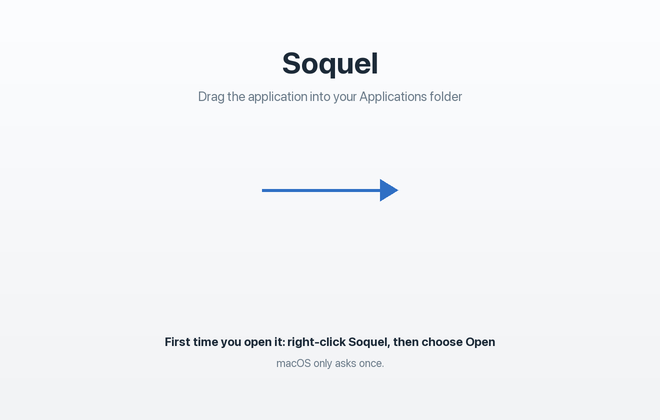
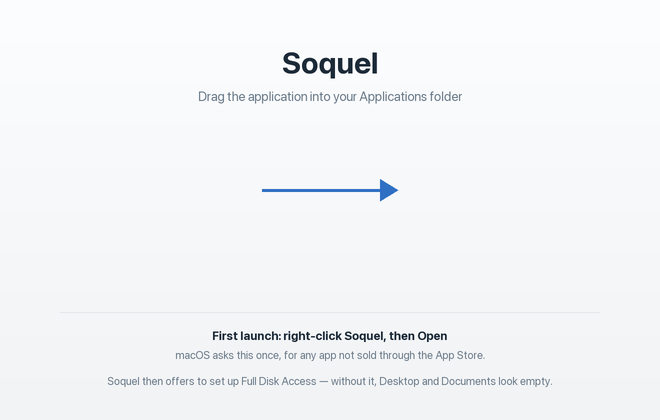
Say what to grant on the first launch, and why
A file manager without Full Disk Access shows Desktop, Documents and
Downloads as empty. That reads as the application being broken rather
than as a permission not yet given, and nothing anywhere said otherwise.

The first launch now opens one window with the two things worth setting
up. Neither can be done from code and the window says so: the database
recording these permissions is protected by System Integrity Protection
precisely so that no program can grant itself access. What it does is
notice the permission is missing, explain what it is for, open the right
pane, and tick itself when the grant lands — checked when the
application comes back to the front, since the granting happens in
another process.

Volumes can be reassigned to Soquel and are offered. Folders cannot:
that call returns paramErr, macOS keeps folders for Finder. The window
says that rather than pretending, and there is a test recording the
refusal so a later attempt finds the answer instead of the error.

Shown once, and reachable again from the Soquel menu.

The disk image now carries the same two warnings, since they are both
things that make a first run look broken to someone who was not told.

Changed region(s): [[0.1515, 0.7738, 0.8485, 0.9286]]

diff --git a/Sources/SoquelCore/Welcome.swift b/Sources/SoquelCore/Welcome.swift
@@ -1,0 +1,282 @@
+import AppKit
+
+/// Whether the application can read the whole disk, and how to say so.
+///
+/// None of this can be granted from code. The database that records these
+/// permissions is protected by System Integrity Protection exactly so that no
+/// program can grant itself access — an application that could would make the
+/// permission meaningless. What an application can do is notice the permission
+/// is missing, say plainly what it is for, and open the pane that grants it.
+enum FullDiskAccess {
+    /// A path only readable with Full Disk Access.
+    ///
+    /// Asking the system directly is not possible; the only honest test is to
+    /// try reading something protected and see whether it is refused. This file
+    /// is the one every application uses for the purpose, and it is opened
+    /// read-only and immediately closed.
+    private static var probe: URL {
+        FileManager.default.homeDirectoryForCurrentUser
+            .appendingPathComponent("Library/Application Support/com.apple.TCC/TCC.db")
+    }
+
+    static var isGranted: Bool {
+        guard FileManager.default.fileExists(atPath: probe.path) else {
+            // No file to read means no answer either way. Treated as granted so
+            // a machine that files it elsewhere is not nagged forever.
+            return true
+        }
+        guard let handle = try? FileHandle(forReadingFrom: probe) else { return false }
+        try? handle.close()
+        return true
+    }
+
+    /// Opens the Full Disk Access list and shows the application in Finder, so
+    /// it can be dragged in. The list cannot be added to from code either.
+    static func openSettings() {
+        if let url = URL(string: "x-apple.systempreferences:com.apple.preference.security?Privacy_AllFiles") {
+            NSWorkspace.shared.open(url)
+        }
+        DispatchQueue.main.asyncAfter(deadline: .now() + 1.2) {
+            NSWorkspace.shared.activateFileViewerSelecting([Bundle.main.bundleURL])
+        }
+    }
+}
+
+/// What Soquel can and cannot take over from Finder.
+enum DefaultHandler {
+    /// macOS refuses to let anything but Finder handle `public.folder`; the
+    /// call returns paramErr. Volumes are allowed, which covers double-clicking
+    /// a disk. Everything else is per-file "Open With".
+    static let folderRoleIsReserved = true
+
+    static func makeDefaultForVolumes() -> Bool {
+        let id = Bundle.main.bundleIdentifier ?? "app.soquel.Soquel"
+        return LSSetDefaultRoleHandlerForContentType(
+            "public.volume" as CFString, .viewer, id as CFString) == noErr
+    }
+
+    static var isDefaultForVolumes: Bool {
+        let id = Bundle.main.bundleIdentifier ?? "app.soquel.Soquel"
+        guard let current = LSCopyDefaultRoleHandlerForContentType(
+            "public.volume" as CFString, .viewer)?.takeRetainedValue() as String? else { return false }
+        return current.caseInsensitiveCompare(id) == .orderedSame
+    }
+}
+
+/// Shown once, on the first launch after installing.
+///
+/// The alternative is the application silently listing nothing in Desktop and
+/// Documents while the person wonders what is broken — those folders are
+/// protected, and a file manager that cannot read them looks defective rather
+/// than unpermitted.
+final class WelcomeWindowController: NSWindowController {
+    static let shared = WelcomeWindowController()
+
+    private var accessRow: StepRow!
+    private var volumeRow: StepRow!
+    private var observer: NSObjectProtocol?
+
+    /// Whether the first run has already been through this.
+    static var hasBeenShown: Bool {
+        get { Settings.bool(forKey: "welcomeShown") }
+        set { Settings.set(newValue, forKey: "welcomeShown") }
+    }
+
+    /// Shows it on a first launch, and never again on its own.
+    static func showIfFirstLaunch() {
+        guard !hasBeenShown else { return }
+        hasBeenShown = true
+        // After the first window, so it is not talking to an empty screen.
+        DispatchQueue.main.asyncAfter(deadline: .now() + 0.4) { shared.show() }
+    }
+
+    func show() {
+        if window == nil { build() }
+        refresh()
+        window?.center()
+        showWindow(nil)
+        window?.makeKeyAndOrderFront(nil)
+        NSApp.activate(ignoringOtherApps: true)
+    }
+
+    deinit {
+        if let observer { NotificationCenter.default.removeObserver(observer) }
+    }
+
+    private func build() {
+        let panel = NSWindow(
+            contentRect: NSRect(x: 0, y: 0, width: 520, height: 430),
+            styleMask: [.titled, .closable],
+            backing: .buffered, defer: false
+        )
+        panel.title = "Welcome to Soquel"
+        panel.isReleasedWhenClosed = false
+
+        let icon = NSImageView(image: NSApp.applicationIconImage)
+        icon.imageScaling = .scaleProportionallyUpOrDown
+        icon.translatesAutoresizingMaskIntoConstraints = false
+
+        let title = NSTextField(labelWithString: "Two things to set up")
+        title.font = NSFont.systemFont(ofSize: 19, weight: .semibold)
+        title.translatesAutoresizingMaskIntoConstraints = false
+
+        let blurb = NSTextField(wrappingLabelWithString:
+            "Neither can be done for you — macOS only lets you grant them yourself.")
+        blurb.font = Theme.rowSecondary
+        blurb.textColor = .secondaryLabelColor
+        blurb.translatesAutoresizingMaskIntoConstraints = false
+
+        accessRow = StepRow(
+            title: "Full Disk Access",
+            detail: "Desktop, Documents and Downloads are protected by macOS. "
+                + "Without this Soquel shows them as empty, which looks broken but is not.",
+            buttonTitle: "Open Settings…",
+            action: { [weak self] in
+                FullDiskAccess.openSettings()
+                self?.startWatchingForGrant()
+            }
+        )
+
+        volumeRow = StepRow(
+            title: "Open disks in Soquel",
+            detail: "Double-clicking a disk opens it here instead of in Finder. "
+                + "Folders cannot be reassigned — macOS keeps those for Finder.",
+            buttonTitle: "Use Soquel",
+            action: { [weak self] in
+                _ = DefaultHandler.makeDefaultForVolumes()
+                self?.refresh()
+            }
+        )
+
+        let done = NSButton(title: "Done", target: self, action: #selector(close(_:)))
+        done.keyEquivalent = "\r"
+        done.translatesAutoresizingMaskIntoConstraints = false
+
+        let later = NSTextField(labelWithString: "You can reopen this from the Soquel menu.")
+        later.font = Theme.status
+        later.textColor = .tertiaryLabelColor
+        later.translatesAutoresizingMaskIntoConstraints = false
+
+        let content = panel.contentView!
+        for view in [icon, title, blurb, accessRow!, volumeRow!, done, later] as [NSView] {
+            content.addSubview(view)
+        }
+
+        NSLayoutConstraint.activate([
+            icon.topAnchor.constraint(equalTo: content.topAnchor, constant: 24),
+            icon.leadingAnchor.constraint(equalTo: content.leadingAnchor, constant: 26),
+            icon.widthAnchor.constraint(equalToConstant: 56),
+            icon.heightAnchor.constraint(equalToConstant: 56),
+
+            title.leadingAnchor.constraint(equalTo: icon.trailingAnchor, constant: 16),
+            title.topAnchor.constraint(equalTo: content.topAnchor, constant: 28),
+            title.trailingAnchor.constraint(equalTo: content.trailingAnchor, constant: -26),
+
+            blurb.leadingAnchor.constraint(equalTo: title.leadingAnchor),
+            blurb.topAnchor.constraint(equalTo: title.bottomAnchor, constant: 4),
+            blurb.trailingAnchor.constraint(equalTo: content.trailingAnchor, constant: -26),
+
+            accessRow.topAnchor.constraint(equalTo: icon.bottomAnchor, constant: 26),
+            accessRow.leadingAnchor.constraint(equalTo: content.leadingAnchor, constant: 26),
+            accessRow.trailingAnchor.constraint(equalTo: content.trailingAnchor, constant: -26),
+
+            volumeRow.topAnchor.constraint(equalTo: accessRow.bottomAnchor, constant: 18),
+            volumeRow.leadingAnchor.constraint(equalTo: accessRow.leadingAnchor),
+            volumeRow.trailingAnchor.constraint(equalTo: accessRow.trailingAnchor),
+
+            done.trailingAnchor.constraint(equalTo: content.trailingAnchor, constant: -26),
+            done.bottomAnchor.constraint(equalTo: content.bottomAnchor, constant: -20),
+            done.widthAnchor.constraint(greaterThanOrEqualToConstant: 90),
+
+            later.leadingAnchor.constraint(equalTo: content.leadingAnchor, constant: 26),
+            later.centerYAnchor.constraint(equalTo: done.centerYAnchor),
+        ])
+
+        window = panel
+
+        // Granting happens in System Settings, in another process, so the only
+        // way to notice is to look again when the window comes back.
+        observer = NotificationCenter.default.addObserver(
+            forName: NSApplication.didBecomeActiveNotification, object: nil, queue: .main
+        ) { [weak self] _ in self?.refresh() }
+    }
+
+    /// Checks a few times after sending someone to System Settings, so the tick
+    /// appears without them having to click back and forth to prompt it.
+    private func startWatchingForGrant() {
+        for delay in stride(from: 2.0, through: 20.0, by: 2.0) {
+            DispatchQueue.main.asyncAfter(deadline: .now() + delay) { [weak self] in
+                self?.refresh()
+            }
+        }
+    }
+
+    private func refresh() {
+        accessRow?.setDone(FullDiskAccess.isGranted)
+        volumeRow?.setDone(DefaultHandler.isDefaultForVolumes)
+    }
+
+    @objc private func close(_ sender: Any?) { window?.close() }
+}
+
+/// One numbered step: what it is, why, and a button that does as much of it as
+/// is possible from here.
+private final class StepRow: NSView {
+    private let button: NSButton
+    private let tick: NSTextField
+    private let action: () -> Void
+
+    init(title: String, detail: String, buttonTitle: String, action: @escaping () -> Void) {
+        self.action = action
+        button = NSButton(title: buttonTitle, target: nil, action: nil)
+        tick = NSTextField(labelWithString: "")
+        super.init(frame: .zero)
+        translatesAutoresizingMaskIntoConstraints = false
+
+        button.target = self
+        button.action = #selector(run)
+        button.translatesAutoresizingMaskIntoConstraints = false
+
+        tick.font = NSFont.systemFont(ofSize: 15, weight: .semibold)
+        tick.translatesAutoresizingMaskIntoConstraints = false
+
+        let name = NSTextField(labelWithString: title)
+        name.font = NSFont.systemFont(ofSize: 13, weight: .semibold)
+        name.translatesAutoresizingMaskIntoConstraints = false
+
+        let why = NSTextField(wrappingLabelWithString: detail)
+        why.font = Theme.rowSecondary
+        why.textColor = .secondaryLabelColor
+        why.translatesAutoresizingMaskIntoConstraints = false
+
+        for view in [name, why, button, tick] as [NSView] { addSubview(view) }
+
+        NSLayoutConstraint.activate([
+            name.topAnchor.constraint(equalTo: topAnchor),
+            name.leadingAnchor.constraint(equalTo: leadingAnchor),
+
+            tick.leadingAnchor.constraint(equalTo: name.trailingAnchor, constant: 8),
+            tick.centerYAnchor.constraint(equalTo: name.centerYAnchor),
+
+            why.topAnchor.constraint(equalTo: name.bottomAnchor, constant: 3),
+            why.leadingAnchor.constraint(equalTo: leadingAnchor),
+            why.trailingAnchor.constraint(equalTo: button.leadingAnchor, constant: -14),
+            why.bottomAnchor.constraint(equalTo: bottomAnchor),
+
+            button.trailingAnchor.constraint(equalTo: trailingAnchor),
+            button.centerYAnchor.constraint(equalTo: centerYAnchor),
+            button.widthAnchor.constraint(greaterThanOrEqualToConstant: 116),
+        ])
+    }
+
+    required init?(coder: NSCoder) { fatalError("not supported") }
+
+    @objc private func run() { action() }
+
+    func setDone(_ done: Bool) {
+        tick.stringValue = done ? "✓" : ""
+        tick.textColor = .systemGreen
+        button.isEnabled = !done
+        button.title = done ? "Done" : button.title
+    }
+}

diff --git a/Tests/SoquelCoreTests/FeatureTests.swift b/Tests/SoquelCoreTests/FeatureTests.swift
@@ -432,3 +432,42 @@ final class FavouriteToggleTests: XCTestCase {
         XCTAssertNotNil(ToolbarCatalogue.action(id: "favourite"))
     }
 }
+
+/// The first-run window, and what can and cannot be automated.
+final class WelcomeTests: XCTestCase {
+    override func tearDown() {
+        Settings.removeObject(forKey: "welcomeShown")
+        super.tearDown()
+    }
+
+    /// Shown once. A window that reappears every launch is an advert.
+    func testItIsOfferedOnceAndThenNotAgain() {
+        Settings.removeObject(forKey: "welcomeShown")
+        XCTAssertFalse(WelcomeWindowController.hasBeenShown)
+        WelcomeWindowController.hasBeenShown = true
+        XCTAssertTrue(WelcomeWindowController.hasBeenShown)
+    }
+
+    /// The flag has to be in the settings file, or it is forgotten and the
+    /// window comes back on the next launch.
+    func testTheFlagIsCarriedInSettings() {
+        XCTAssertTrue(Prefs.keys.contains("welcomeShown"))
+    }
+
+    /// macOS refuses to let anything but Finder open folders. Recorded as a
+    /// test so a later attempt to "fix" it finds the answer rather than the
+    /// paramErr.
+    func testFoldersCannotBeReassignedAwayFromFinder() {
+        XCTAssertTrue(DefaultHandler.folderRoleIsReserved)
+        let status = LSSetDefaultRoleHandlerForContentType(
+            "public.folder" as CFString, .viewer, "app.soquel.Soquel" as CFString)
+        XCTAssertNotEqual(status, noErr, "macOS started allowing this; the welcome text should say so")
+    }
+
+    /// The probe has to be a path that is actually protected, or the check
+    /// reports access nobody has.
+    func testTheAccessCheckLooksAtAProtectedPath() {
+        // Granted or not, asking must not crash or block.
+        _ = FullDiskAccess.isGranted
+    }
+}

diff --git a/Sources/SoquelCore/AppDelegate.swift b/Sources/SoquelCore/AppDelegate.swift
@@ -46,6 +46,11 @@ public final class AppDelegate: NSObject, NSApplicationDelegate {
         newWindow(nil)
         NSApp.activate(ignoringOtherApps: true)
 
+        // First launch only. A file manager that cannot read Desktop or
+        // Documents looks broken rather than unpermitted, so it is worth one
+        // window saying what to grant and why.
+        WelcomeWindowController.showIfFirstLaunch()
+
         // Opens a panel straight away, for screenshots and for reproducing a
         // bug without describing six clicks first.
         if let panel = ProcessInfo.processInfo.environment["SOQUEL_OPEN"] {
@@ -103,6 +108,10 @@ public final class AppDelegate: NSObject, NSApplicationDelegate {
         Settings.writeNow()
     }
 
+    @objc func showWelcome(_ sender: Any?) {
+        WelcomeWindowController.shared.show()
+    }
+
     @objc func newWindow(_ sender: Any?) {
         let controller = MainWindowController()
         windowControllers.append(controller)
@@ -127,6 +136,7 @@ public final class AppDelegate: NSObject, NSApplicationDelegate {
         let appMenuItem = NSMenuItem()
         let appMenu = NSMenu(title: "Soquel")
         appMenu.addItem(withTitle: "About Soquel", action: #selector(NSApplication.orderFrontStandardAboutPanel(_:)), keyEquivalent: "")
+        appMenu.addItem(withTitle: "Set Up Permissions…", action: #selector(showWelcome(_:)), keyEquivalent: "")
         appMenu.addItem(.separator())
         let settings = appMenu.addItem(withTitle: "Settings…", action: #selector(MainWindowController.menuSettings(_:)), keyEquivalent: ",")
         settings.keyEquivalentModifierMask = [.command]

diff --git a/Sources/SoquelCore/Preferences.swift b/Sources/SoquelCore/Preferences.swift
@@ -10,7 +10,7 @@ enum Prefs {
         "showHiddenFiles", "foldersFirst", "favouritePaths", "viewMode",
         "showFolderTree", "showInspector", "showGitStatus", "calculateFolderSizes",
         "autoFitColumns", "iconSize", "sortOrder", "terminalBundleID", "keyboardFirst",
-        "editorBundleID", "sessionPanes", "sessionActiveTabs",
+        "editorBundleID", "sessionPanes", "sessionActiveTabs", "welcomeShown",
     ]
 
     static var showHiddenFiles: Bool {

diff --git a/scripts/make-dmg-background.py b/scripts/make-dmg-background.py
@@ -63,12 +63,17 @@ d.polygon([(x1, y), (x1 - 18 * S, y - 11 * S), (x1 - 18 * S, y + 11 * S)], fill=
 # No labels under the icons: Finder draws those itself, and a second set
 # underneath them reads as a mistake.
 
-# The application is signed but not notarised, so the first launch is refused
-# until it is opened from the context menu. Saying so here is the difference
-# between a person trying it and a person assuming it is broken.
-centred(d, "First time you open it: right-click Soquel, then choose Open", 334,
-        font(12, bold=True), INK)
-centred(d, "macOS only asks once.", 356, font(11), MUTED)
+# The two things that make a first run look broken when nobody warns you:
+# an unnotarised build is refused once, and a file manager without Full Disk
+# Access shows Desktop and Documents as empty. Both are said here, and again
+# in the window the application opens on its first launch.
+d.line([(60 * S, 312 * S), ((W - 60) * S, 312 * S)], fill=(226, 230, 235), width=S)
+
+centred(d, "First launch: right-click Soquel, then Open", 328, font(12, bold=True), INK)
+centred(d, "macOS asks this once, for any app not sold through the App Store.",
+        348, font(11), MUTED)
+centred(d, "Soquel then offers to set up Full Disk Access — without it, "
+           "Desktop and Documents look empty.", 374, font(11), MUTED)
 
 img.resize((W, H), Image.LANCZOS).save("Support/dmg/background.png")
 img.save("Support/dmg/background@2x.png")
